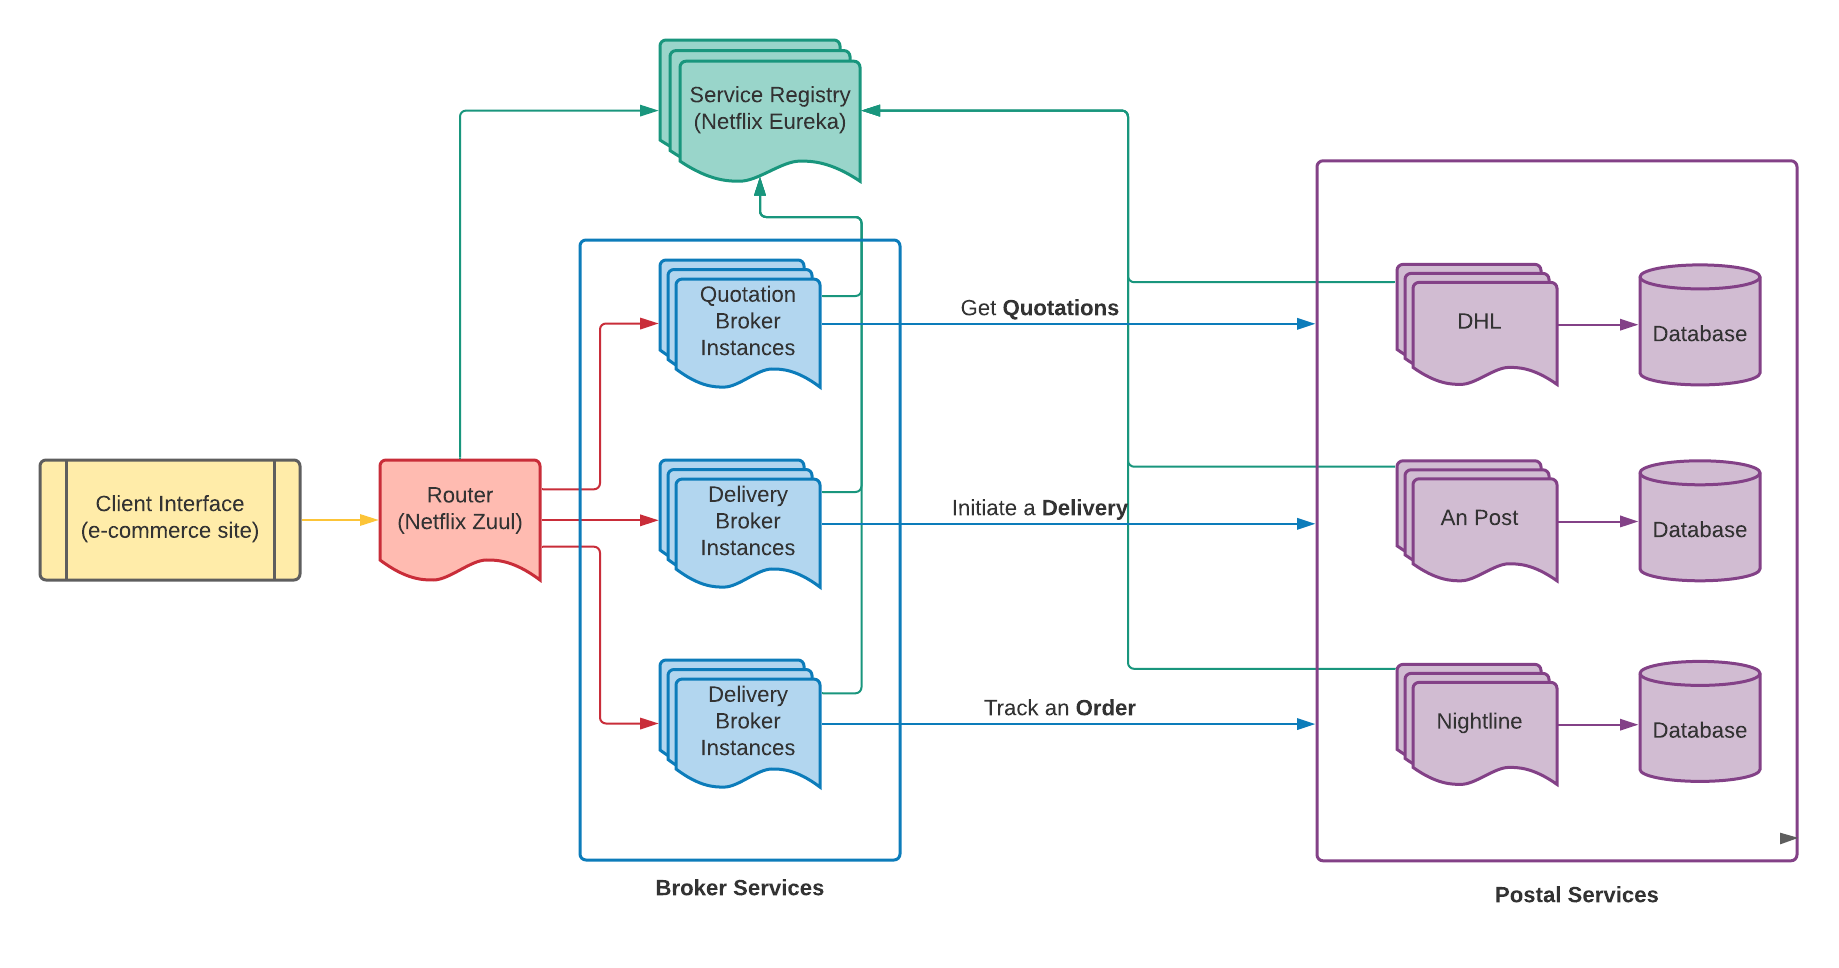
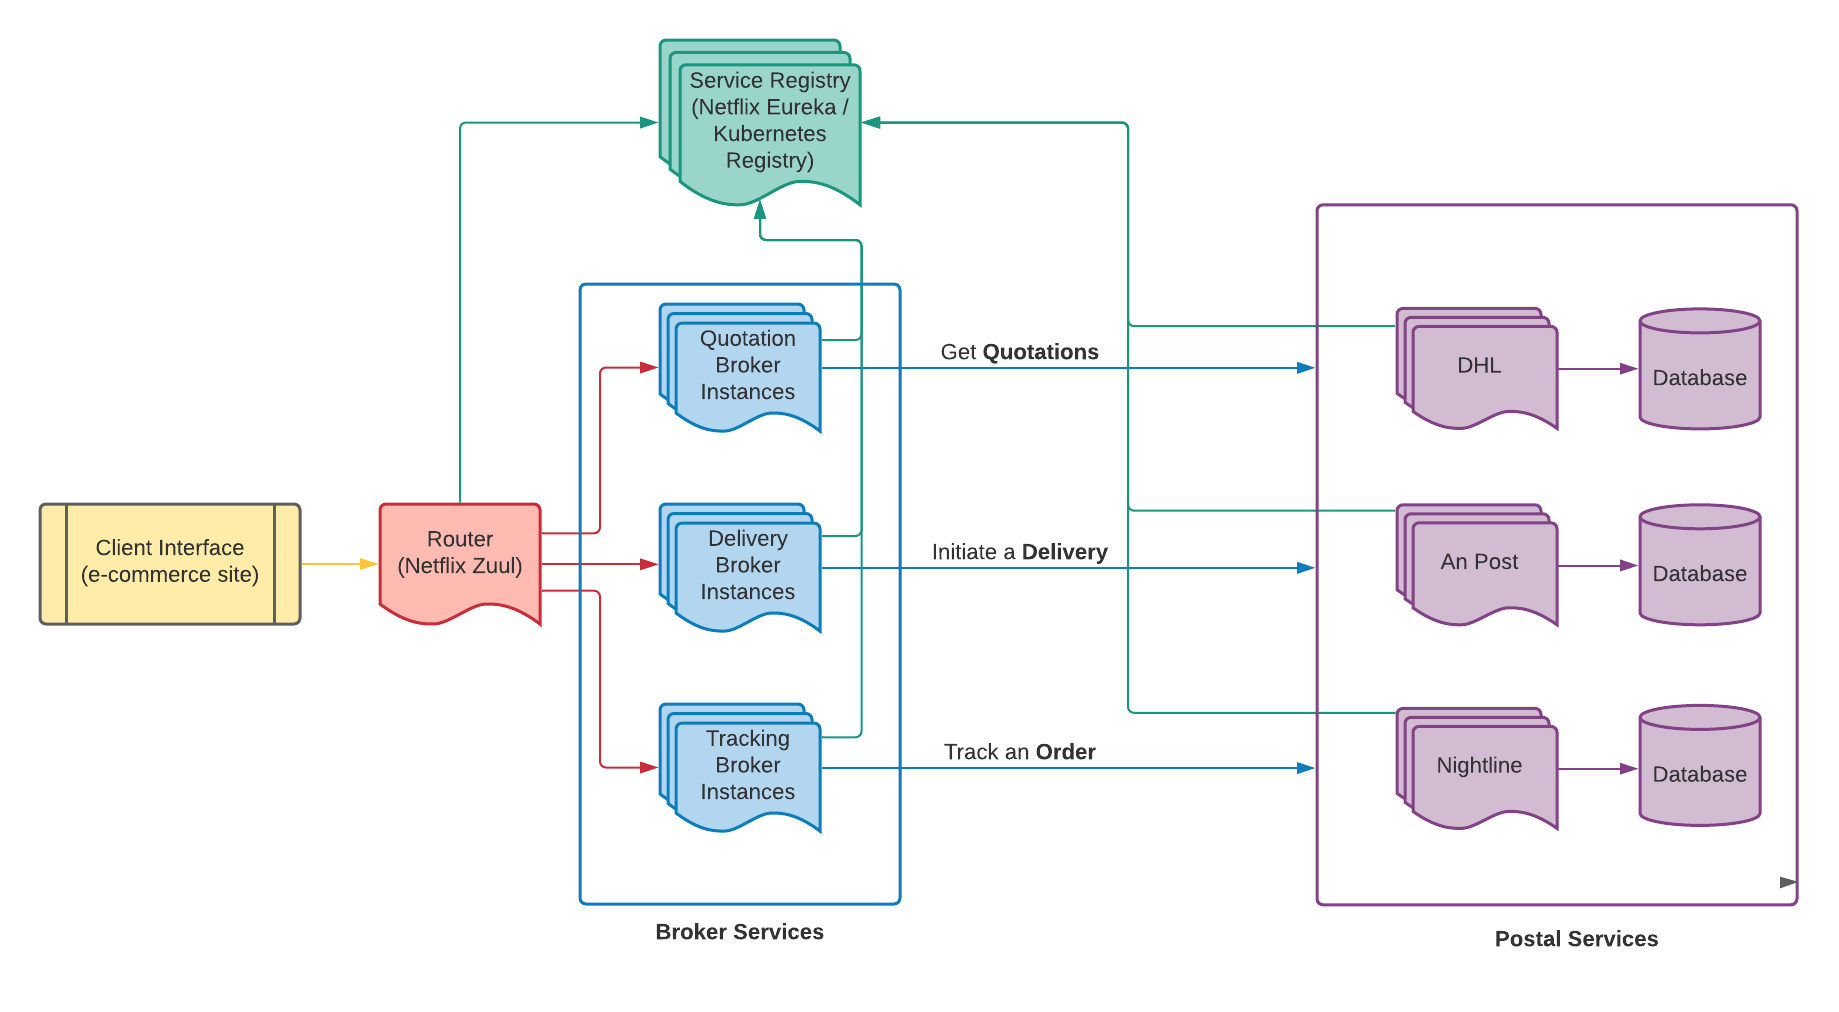
Updated README.md

diff --git a/README.md b/README.md
@@ -8,7 +8,9 @@ A microservices system that offers an 'inbetween' for e-commerce sites and posta
 2. Initiate a delivery order
 3. Track that orders status and location in the postal services sorting centres.
 
-This system is easily scalable to accommodate multiple postal services and designed to perform under load from its clients.
+This system is scalable to accommodate multiple postal services and designed to perform under load from its clients.
+
+The system has been configured to run locally with either the Netflix OSS stack (Eureka and Zuul for load balancing and service discovery) or via Kubernetes. See below, how to run the system both ways.
 
 ## Running the system locally
 
@@ -92,8 +94,19 @@ Will give back the address and port to reach the service via browser
 ```
 minikube service quotation-service-service
 ```
-<br>
-<br>
+
+## The Client
+
+A sample client (built with React.js) that mimics an e-commerce site has been provided for testing purposes. The client is connected to the Zuul server and demonstrates the functionality of each of the broker services (and in doing so, the postal services too).
 
 ### Running the sample client
 
+You will need node package manager (npm) to install all dependencies and run the start scripts.
+
+```
+cd client
+npm install
+npm start
+```
+The client should pop up in your browser looking something like this:
+![Apple Store Front Page](apple-store-front-page.jpg)
